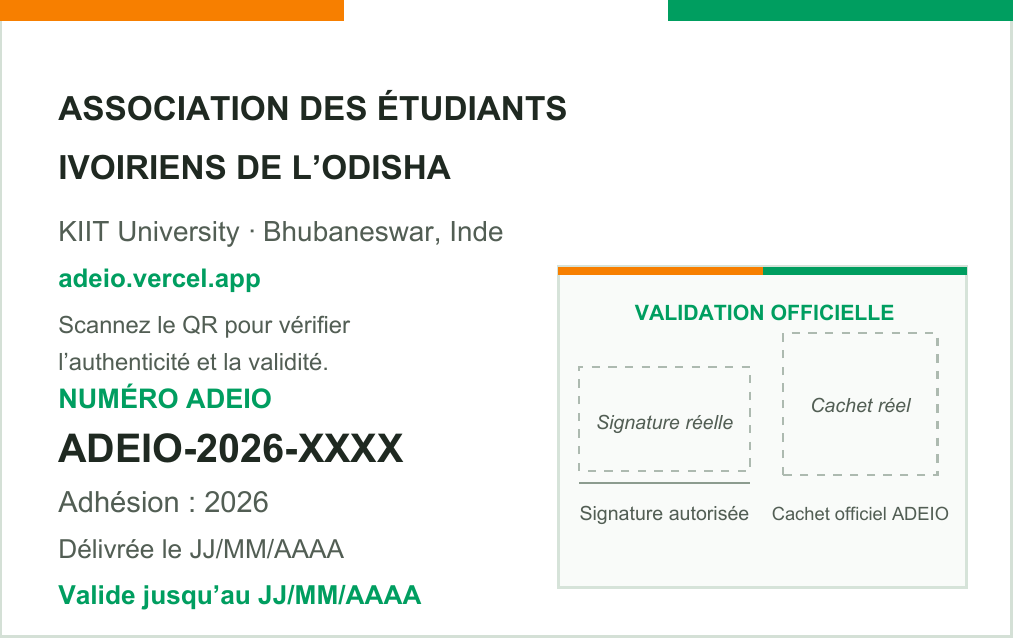
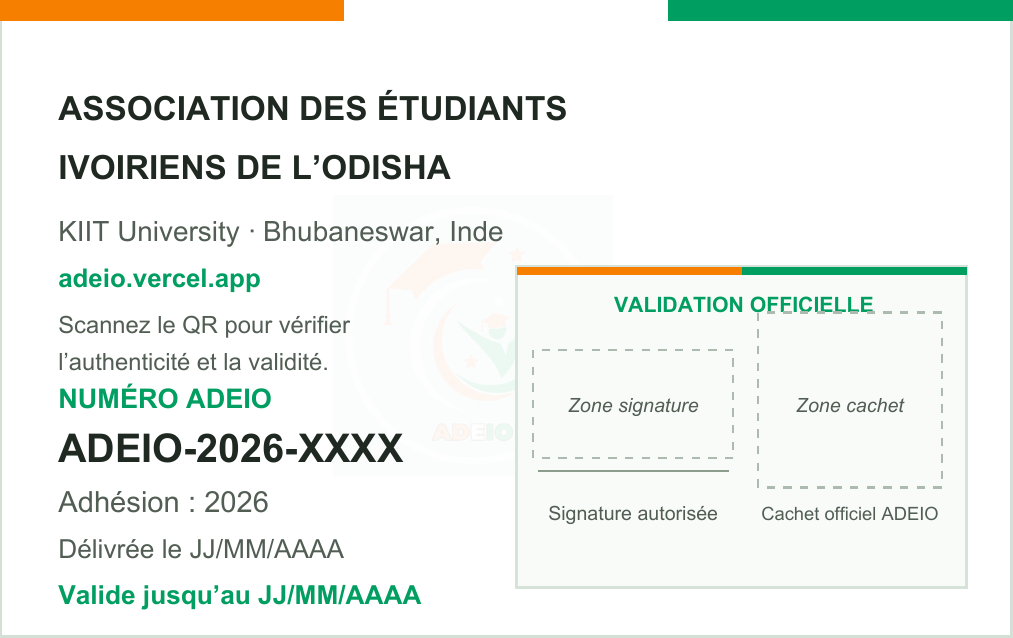
Derniere mise à jour

diff --git a/src/app/api/admin/member-cards/route.ts b/src/app/api/admin/member-cards/route.ts
@@ -1,4 +1,6 @@
 import { NextResponse, type NextRequest } from "next/server";
+import { readFile } from "node:fs/promises";
+import { join } from "node:path";
 import { PDFDocument, StandardFonts, rgb, type PDFPage, type PDFFont, type PDFImage } from "pdf-lib";
 import QRCode from "qrcode";
 import sharp from "sharp";
@@ -68,7 +70,7 @@ function drawShell(page: PDFPage, x: number, y: number, cardW: number, cardH: nu
   page.drawRectangle({ x: x + cardW * 0.66, y: y + cardH - 5, width: cardW * 0.34, height: 5, color: GREEN });
 }
 
-function drawImageContained(page: PDFPage, image: PDFImage, x: number, y: number, maxWidth: number, maxHeight: number) {
+function drawImageContained(page: PDFPage, image: PDFImage, x: number, y: number, maxWidth: number, maxHeight: number, opacity = 1) {
   const scale = Math.min(maxWidth / image.width, maxHeight / image.height);
   const width = image.width * scale;
   const height = image.height * scale;
@@ -77,6 +79,7 @@ function drawImageContained(page: PDFPage, image: PDFImage, x: number, y: number
     y: y + (maxHeight - height) / 2,
     width,
     height,
+    opacity,
   });
 }
 
@@ -175,6 +178,8 @@ export async function POST(request: NextRequest) {
   const pdf = await PDFDocument.create();
   const regular = await pdf.embedFont(StandardFonts.Helvetica);
   const bold = await pdf.embedFont(StandardFonts.HelveticaBold);
+  const logoBytes = await readFile(join(process.cwd(), "public", "adeio-logo.jpeg"));
+  const logo = await pdf.embedJpg(logoBytes);
   const pageCount = Math.ceil(prepared.length / 8);
   for (let sheet = 0; sheet < pageCount; sheet += 1) {
     const pageMembers = prepared.slice(sheet * 8, (sheet + 1) * 8);
@@ -186,6 +191,7 @@ export async function POST(request: NextRequest) {
       const { cardW, cardH, x, y } = cardPosition(localIndex);
       drawShell(front, x, y, cardW, cardH);
       drawShell(back, x, y, cardW, cardH);
+      drawImageContained(back, logo, x + 80, y + 39, 67, 67, 0.08);
 
       front.drawText("ADEIO", { x: x + 13, y: y + cardH - 25, size: 12, font: bold, color: GREEN });
       front.drawText("CARTE DE MEMBRE", { x: x + 57, y: y + cardH - 24, size: 7, font: bold, color: DARK });
@@ -220,7 +226,7 @@ export async function POST(request: NextRequest) {
       back.drawText("Scannez le QR pour vérifier", { x: x + 14, y: y + cardH - 80, size: 5.7, font: regular, color: MUTED });
       back.drawText("l’authenticité et la validité.", { x: x + 14, y: y + cardH - 89, size: 5.7, font: regular, color: MUTED });
       back.drawText("NUMÉRO ADEIO", { x: x + 14, y: y + 55, size: 6.5, font: bold, color: GREEN });
-      back.drawText(fitText(snap.member_number, 116, bold, 9.5), { x: x + 14, y: y + 42, size: 9.5, font: bold, color: DARK });
+      back.drawText(fitText(snap.member_number, 108, bold, 9.5), { x: x + 14, y: y + 42, size: 9.5, font: bold, color: DARK });
       back.drawText(`Adhésion : ${snap.joined_year}`, { x: x + 14, y: y + 30, size: 7, font: regular, color: MUTED });
       back.drawText(`Délivrée le ${formatDate(item.issuance.issued_on)}`, { x: x + 14, y: y + 19, size: 6.3, font: regular, color: MUTED });
       back.drawText(`Valide jusqu’au ${formatDate(item.issuance.valid_until)}`, { x: x + 14, y: y + 8, size: 6.3, font: bold, color: GREEN });
@@ -228,9 +234,9 @@ export async function POST(request: NextRequest) {
       const seal = await pdf.embedPng(item.seal);
 
       // Bloc officiel compact, dans les marges de sécurité et sans déformer les PNG.
-      const officialX = x + 134;
+      const officialX = x + 124;
       const officialY = y + 12;
-      const officialW = 98;
+      const officialW = 108;
       const officialH = 77;
       back.drawRectangle({
         x: officialX,
@@ -243,17 +249,17 @@ export async function POST(request: NextRequest) {
       });
       back.drawRectangle({ x: officialX, y: officialY + officialH - 2, width: officialW / 2, height: 2, color: ORANGE });
       back.drawRectangle({ x: officialX + officialW / 2, y: officialY + officialH - 2, width: officialW / 2, height: 2, color: GREEN });
-      drawCenteredText(back, "VALIDATION OFFICIELLE", officialX + 4, officialY + officialH - 13, officialW - 8, bold, 5.1, GREEN);
+      drawCenteredText(back, "VALIDATION OFFICIELLE", officialX + 4, officialY + officialH - 11, officialW - 8, bold, 5.1, GREEN);
 
       const signatureX = officialX + 4;
-      const signatureW = 43;
-      drawImageContained(back, signature, signatureX + 1, officialY + 28, signatureW - 2, 25);
-      back.drawLine({ start: { x: signatureX + 1, y: officialY + 25 }, end: { x: signatureX + signatureW - 1, y: officialY + 25 }, thickness: 0.55, color: rgb(0.55, 0.61, 0.56) });
+      const signatureW = 48;
+      drawImageContained(back, signature, signatureX, officialY + 31, signatureW, 26);
+      back.drawLine({ start: { x: signatureX + 1, y: officialY + 28 }, end: { x: signatureX + signatureW - 1, y: officialY + 28 }, thickness: 0.55, color: rgb(0.55, 0.61, 0.56) });
       drawCenteredText(back, "Signature autorisée", signatureX, officialY + 16, signatureW, regular, 4.7, MUTED);
 
-      const sealX = officialX + 51;
-      const sealW = 43;
-      drawImageContained(back, seal, sealX + 3, officialY + 27, sealW - 6, 34);
+      const sealX = officialX + 56;
+      const sealW = 48;
+      drawImageContained(back, seal, sealX + 2, officialY + 24, sealW - 4, 42);
       drawCenteredText(back, "Cachet officiel ADEIO", sealX, officialY + 16, sealW, regular, 4.4, MUTED);
     }
   }
